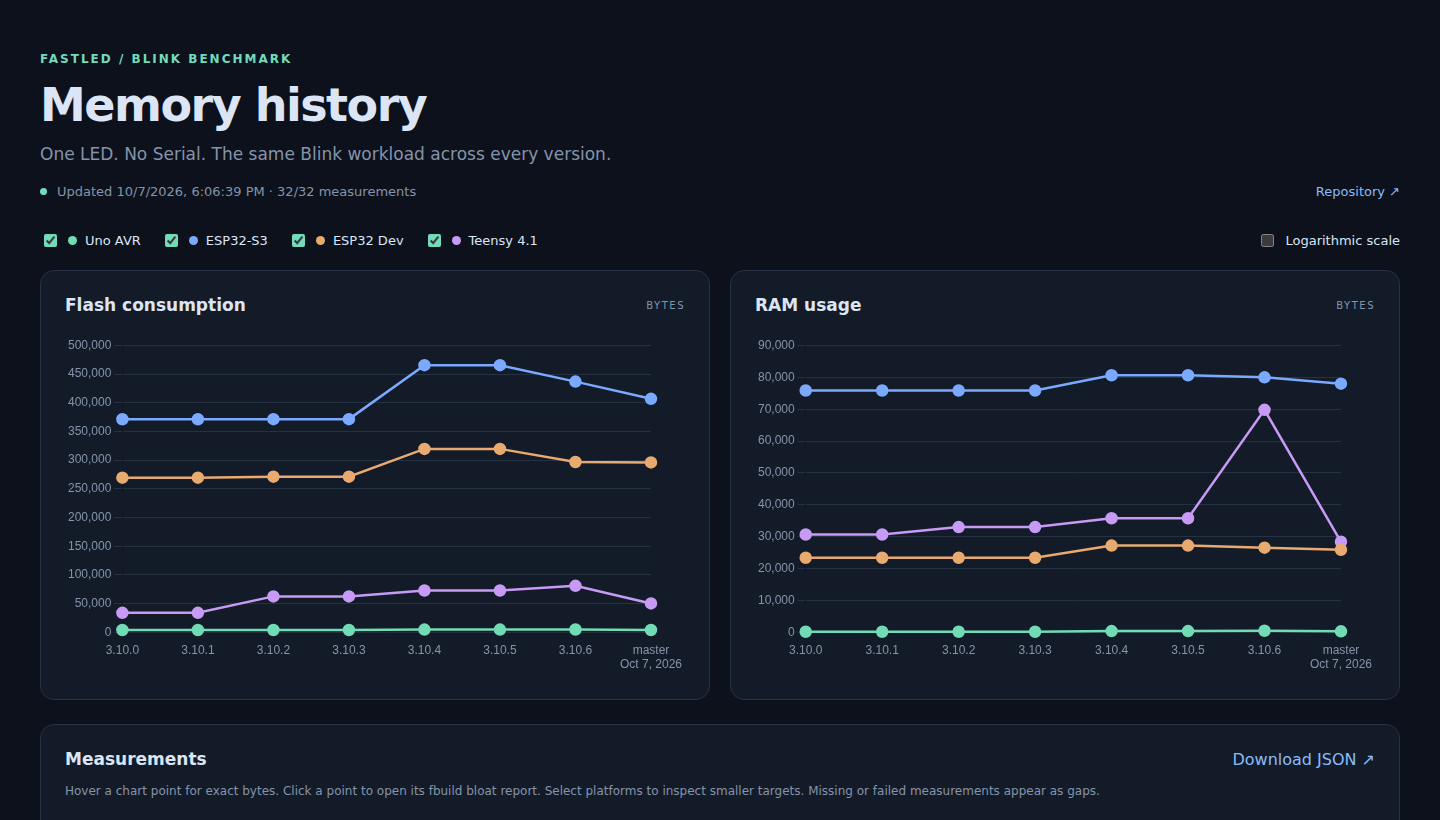
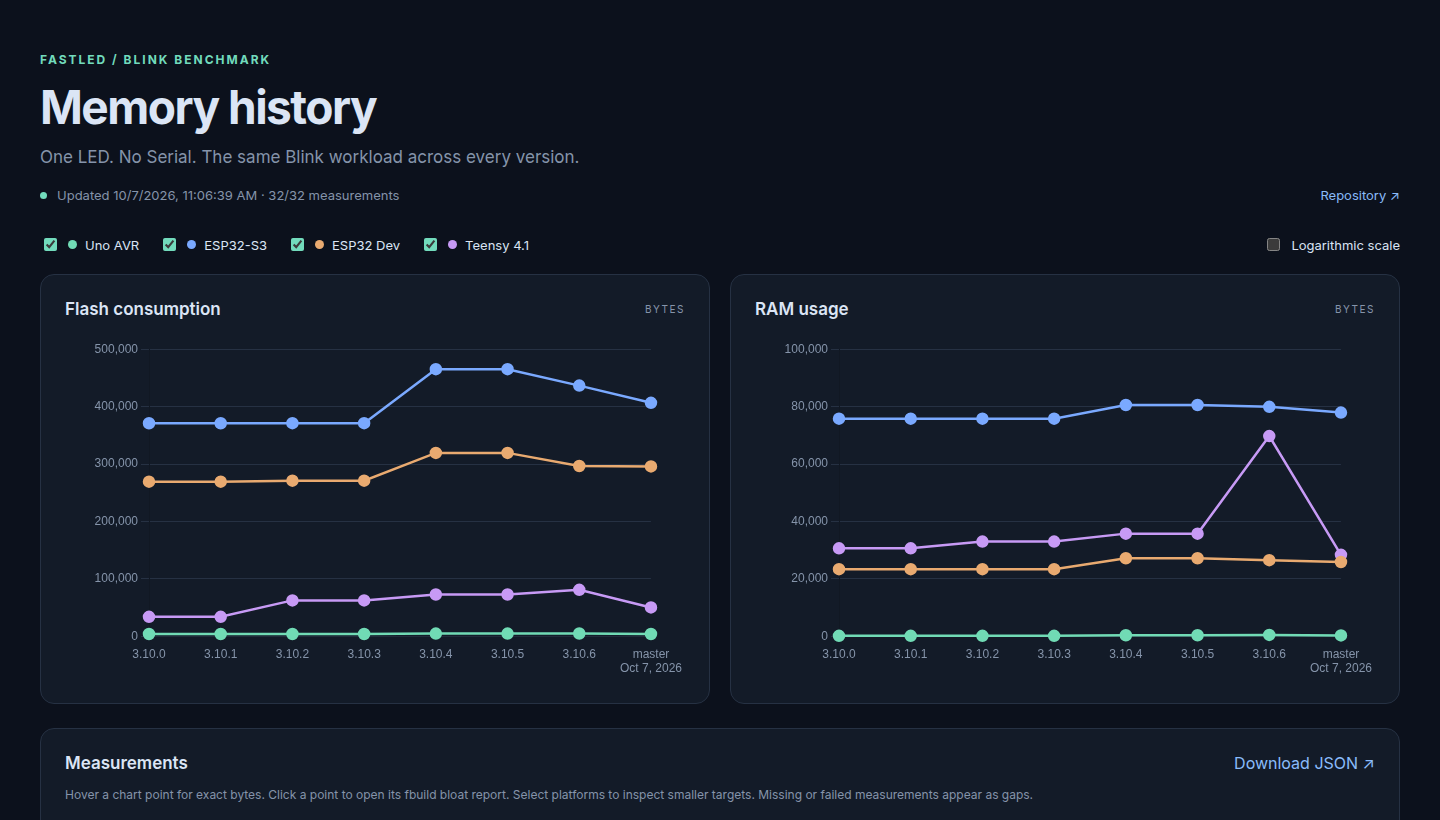
fix: animate axis ticks and lazily render bloat symbols

diff --git a/docs/app.js b/docs/app.js
@@ -22,8 +22,35 @@ function versionLabel(element, row) {
 let results = [];
 let chartVersions = [...versions];
 const charts = {};
+const axisTicks = chart => chart.scales.y.ticks.filter(tick => tick.label != null).map(tick => ({ value: tick.value, y: chart.scales.y.getPixelForValue(tick.value) }));
+const scaleTransition = {
+  id: 'scaleTransition',
+  afterUpdate(chart) {
+    const scale = chart.scales.y;
+    if (scale.$transitionDraw) return;
+    for (const method of ['drawGrid', 'drawLabels', 'drawBorder', 'drawTitle']) {
+      const draw = scale[method].bind(scale);
+      scale[method] = (...args) => { if (!chart.$scaleTransition) draw(...args); };
+    }
+    scale.$transitionDraw = true;
+  },
+  beforeDatasetsDraw(chart) {
+    const transition = chart.$scaleTransition;
+    if (!transition) return;
+    const { ctx, chartArea } = chart;
+    ctx.save(); ctx.font = '12px sans-serif'; ctx.textAlign = 'right'; ctx.textBaseline = 'middle';
+    for (const tick of transition.ticks) {
+      ctx.globalAlpha = tick.opacity;
+      ctx.strokeStyle = '#263143'; ctx.beginPath(); ctx.moveTo(chartArea.left, tick.y); ctx.lineTo(chartArea.right, tick.y); ctx.stroke();
+      ctx.fillStyle = '#8594aa'; ctx.fillText(Math.round(tick.value).toLocaleString('en-US'), chartArea.left - 10, tick.y);
+    }
+    ctx.restore();
+  },
+  beforeDestroy(chart) { cancelAnimationFrame(chart.$scaleFrame); },
+};
 const modal = document.getElementById('bloat-modal');
 let reportRequest = 0;
+const reportCache = new Map();
 document.getElementById('close-modal').addEventListener('click', () => modal.close());
 modal.addEventListener('click', event => { if (event.target === modal) modal.close(); });
 async function openBloat(row) {
@@ -36,9 +63,13 @@ async function openBloat(row) {
   const container = document.getElementById('bloat-report'); container.textContent = 'Loading symbol report…';
   if (!modal.open) modal.showModal();
   try {
-    const response = await fetch(row.bloat_report);
-    if (!response.ok) throw new Error(`HTTP ${response.status}`);
-    const report = await response.json();
+    if (!reportCache.has(row.bloat_report)) {
+      reportCache.set(row.bloat_report, fetch(row.bloat_report).then(response => {
+        if (!response.ok) throw new Error(`HTTP ${response.status}`);
+        return response.json();
+      }).catch(error => { reportCache.delete(row.bloat_report); throw error; }));
+    }
+    const report = await reportCache.get(row.bloat_report);
     if (request !== reportRequest) return;
     container.replaceChildren();
     const summary = document.createElement('p');
@@ -55,17 +86,21 @@ async function openBloat(row) {
       const head = document.createElement('thead'); const tr = document.createElement('tr');
       ['Region', 'Bytes', 'Symbol', 'Object'].forEach(text => { const th = document.createElement('th'); th.textContent = text; tr.append(th); }); head.append(tr); table.append(head);
       const body = document.createElement('tbody');
-      symbols.forEach((symbol, index) => {
+      const renderRows = expanded => {
+      const fragment = document.createDocumentFragment();
+      (expanded ? symbols : symbols.slice(0, 5)).forEach(symbol => {
         const tr = document.createElement('tr');
-        tr.hidden = index >= 5;
-        [symbol.region, symbol.size.toLocaleString('en-US'), symbol.demangled, symbol.object || '—'].forEach(text => { const td = document.createElement('td'); td.textContent = text; tr.append(td); }); body.append(tr);
+        [symbol.region, symbol.size.toLocaleString('en-US'), symbol.demangled, symbol.object || '—'].forEach(text => { const td = document.createElement('td'); td.textContent = text; tr.append(td); }); fragment.append(tr);
       });
+      body.replaceChildren(fragment);
+      };
+      renderRows(false);
       table.append(body); if (symbols.length) section.append(table);
       if (symbols.length > 5) {
         const more = document.createElement('button'); more.className = 'bloat-more'; more.textContent = `More (${(symbols.length - 5).toLocaleString('en-US')} remaining)`; more.setAttribute('aria-expanded', 'false'); more.setAttribute('aria-controls', table.id);
         more.addEventListener('click', () => {
           const expanded = more.getAttribute('aria-expanded') !== 'true';
-          [...body.rows].forEach((row, index) => { row.hidden = !expanded && index >= 5; });
+          renderRows(expanded);
           more.setAttribute('aria-expanded', String(expanded)); more.textContent = expanded ? 'Show top five' : `More (${(symbols.length - 5).toLocaleString('en-US')} remaining)`;
           note.textContent = expanded ? 'Largest symbols first. Showing all symbols.' : 'Largest symbols first. Showing the top five.';
         });
@@ -85,13 +120,14 @@ function chart(metric) {
     return {label:platform.name, borderColor:platform.color, backgroundColor:platform.color, pointRadius:5, pointHoverRadius:8, pointHitRadius:12, borderWidth:2.5, spanGaps:false, rows, data:rows.map(row => row && Number.isFinite(row[metric]) && (!log || row[metric]>0) ? row[metric] : null)};
   });
   charts[metric] = new Chart(canvas, {
+    plugins: [scaleTransition],
     type:'line', data:{labels:chartVersions.map(version => version === 'master' ? ['master', ...new Set(results.filter(row => row.version === 'master' && enabled.has(row.board)).map(row => localDate(row.measured_at)))] : version),datasets}, options:{
       responsive:true, maintainAspectRatio:false, animation:false,
       interaction:{mode:'nearest',intersect:true},
       onHover:(event,elements) => { canvas.style.cursor = elements.length ? 'pointer' : 'default'; },
       onClick:(event,elements,chart) => { if(elements.length) { const p=elements[0]; openBloat(chart.data.datasets[p.datasetIndex].rows[p.index]); } },
       plugins:{legend:{display:false},tooltip:{backgroundColor:'#0c111c',padding:12,callbacks:{label:context=>`${context.dataset.label}: ${bytes(context.parsed.y)}`,afterLabel:context=> { const row = context.dataset.rows[context.dataIndex]; return [`Measured ${localTimestamp(row.measured_at)}`, `SHA ${row.sha.slice(0,10)} · click for bloat`]; }}}},
-      scales:{x:{grid:{display:false},ticks:{color:'#8594aa'}},y:{type:log?'logarithmic':'linear',beginAtZero:!log,grid:{color:'#263143'},ticks:{color:'#8594aa',callback:value=>Number(value).toLocaleString('en-US')}}}
+      scales:{x:{grid:{display:false},ticks:{color:'#8594aa'}},y:{afterFit:scale => { scale.width = 84; },type:log?'logarithmic':'linear',beginAtZero:!log,grid:{color:'#263143'},ticks:{maxTicksLimit:8,color:'#8594aa',callback:value=>Number(value).toLocaleString('en-US')}}}
     }
   });
 }
@@ -121,13 +157,43 @@ platforms.forEach(platform => {
 document.getElementById('log').addEventListener('change', () => {
   const log = document.getElementById('log').checked;
   for (const [metric, chart] of Object.entries(charts)) {
-    chart.options.animation = { duration: 650, easing: 'easeInOutCubic' };
+    cancelAnimationFrame(chart.$scaleFrame);
+    const fromTicks = chart.$scaleTransition?.ticks || axisTicks(chart);
+    const fromPoints = chart.data.datasets.map((dataset, index) => chart.getDatasetMeta(index).data.map(point => ({ x: point.x, y: point.y })));
+    chart.$scaleTransition = { ticks: fromTicks };
+    chart.options.animation = false;
     chart.options.scales.y.type = log ? 'logarithmic' : 'linear';
     chart.options.scales.y.beginAtZero = !log;
     for (const dataset of chart.data.datasets) {
       dataset.data = dataset.rows.map(row => row && Number.isFinite(row[metric]) && (!log || row[metric] > 0) ? row[metric] : null);
     }
-    chart.update();
+    chart.update('none');
+    const toTicks = axisTicks(chart);
+    const toPoints = chart.data.datasets.map((dataset, index) => chart.getDatasetMeta(index).data.map(point => ({ x: point.x, y: point.y })));
+    const count = Math.max(fromTicks.length, toTicks.length);
+    const started = performance.now();
+    const interpolate = (a, b, progress) => a + (b - a) * progress;
+    const animate = now => {
+      const elapsed = Math.min(1, (now - started) / 1000);
+      const progress = elapsed < 0.5 ? 4 * elapsed ** 3 : 1 - (-2 * elapsed + 2) ** 3 / 2;
+      chart.$scaleTransition.ticks = Array.from({ length: count }, (_, index) => {
+        const from = fromTicks[Math.min(index, fromTicks.length - 1)];
+        const to = toTicks[Math.min(index, toTicks.length - 1)];
+        return { value: interpolate(from.value, to.value, progress), y: interpolate(from.y, to.y, progress), opacity: interpolate(index < fromTicks.length ? 1 : 0, index < toTicks.length ? 1 : 0, progress) };
+      });
+      chart.data.datasets.forEach((dataset, index) => {
+        const meta = chart.getDatasetMeta(index);
+        meta.dataset._path = undefined;
+        meta.data.forEach((point, pointIndex) => {
+        const from = fromPoints[index][pointIndex], to = toPoints[index][pointIndex];
+        point.x = interpolate(from.x, to.x, progress); point.y = interpolate(from.y, to.y, progress);
+        });
+      });
+      if (elapsed === 1) chart.$scaleTransition = null;
+      chart.draw();
+      if (elapsed < 1) chart.$scaleFrame = requestAnimationFrame(animate);
+    };
+    animate(started);
   }
 });
 try {

diff --git a/docs/index.html b/docs/index.html
@@ -21,5 +21,5 @@
   </main>
   <dialog id="bloat-modal" aria-labelledby="bloat-title"><div class="modal-head"><h2 id="bloat-title">Bloat report</h2><button id="close-modal" aria-label="Close bloat report">×</button></div><p id="bloat-meta"></p><div id="bloat-report"></div></dialog>
   <script src="vendor/chart.umd.js"></script>
-  <script type="module" src="app.js"></script>
+  <script type="module" src="app.js?v=axis-motion-2"></script>
 </body></html>
